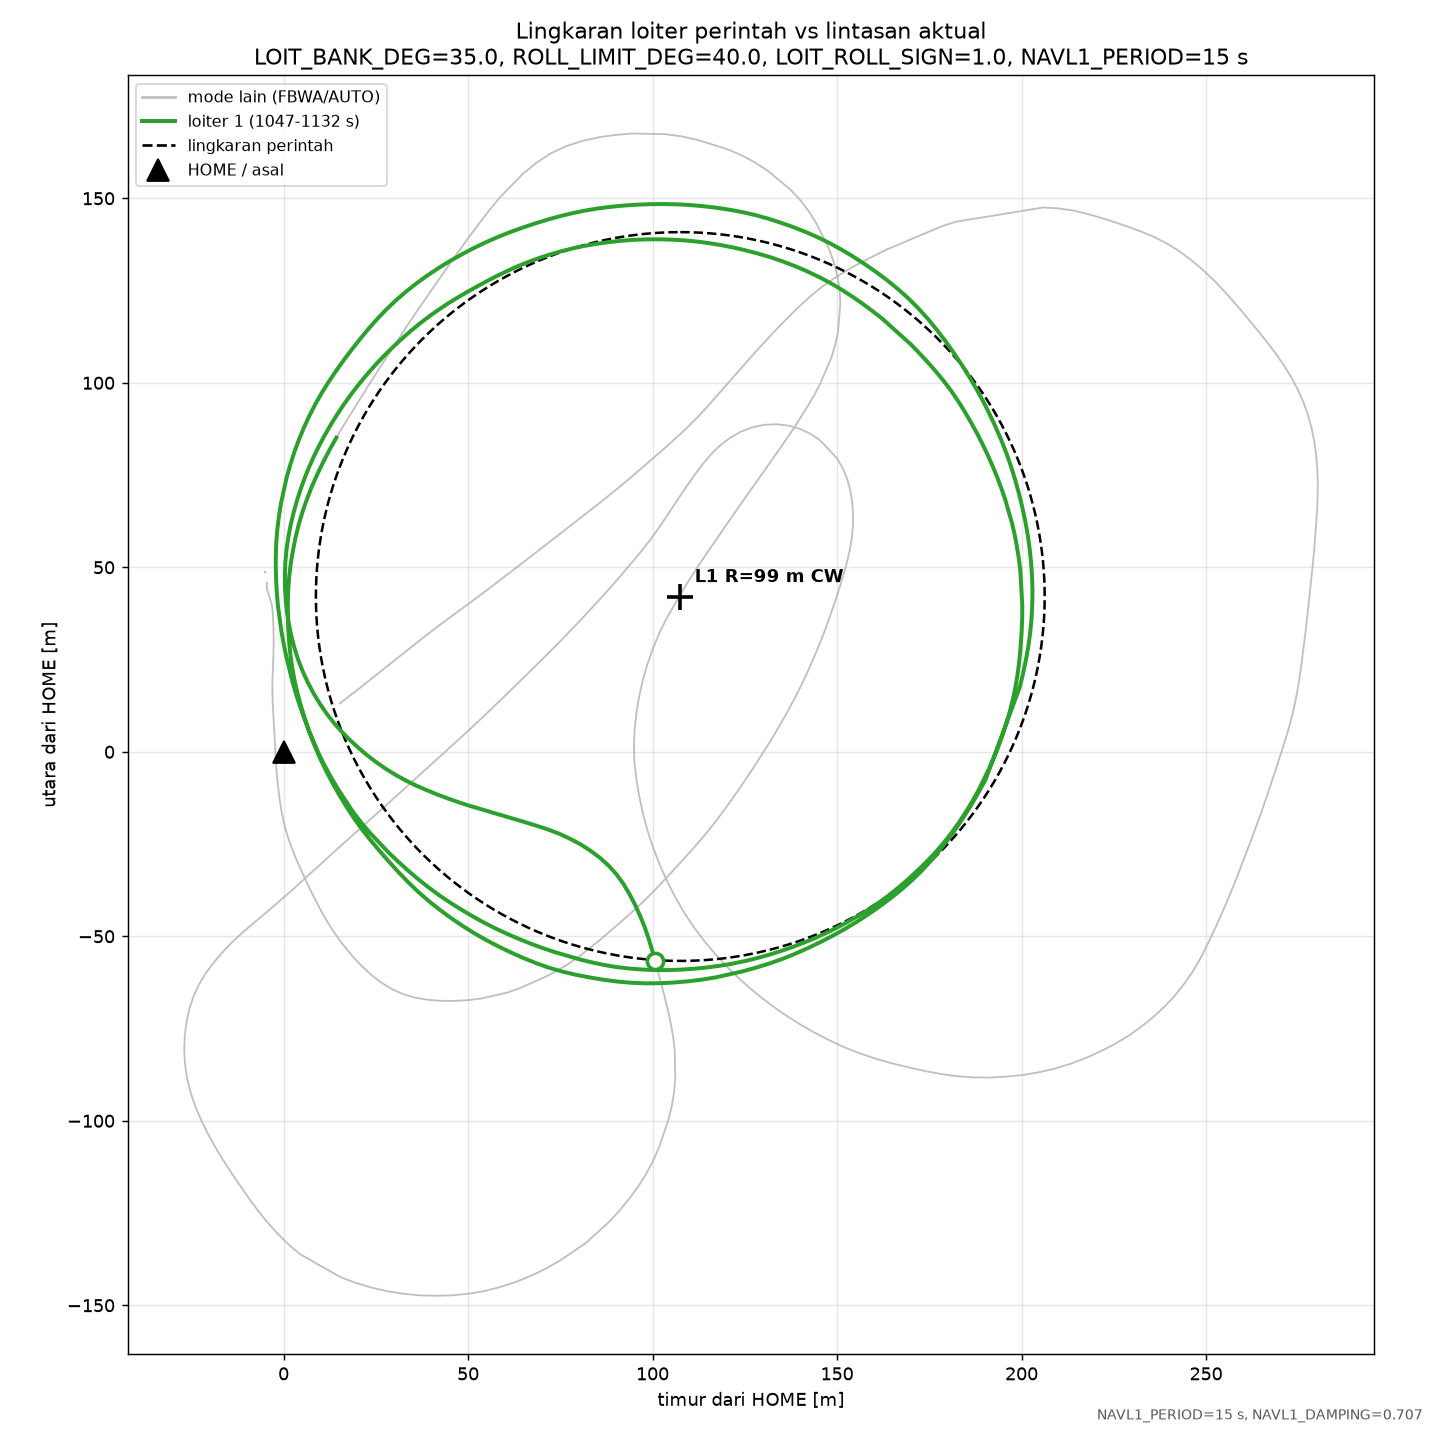
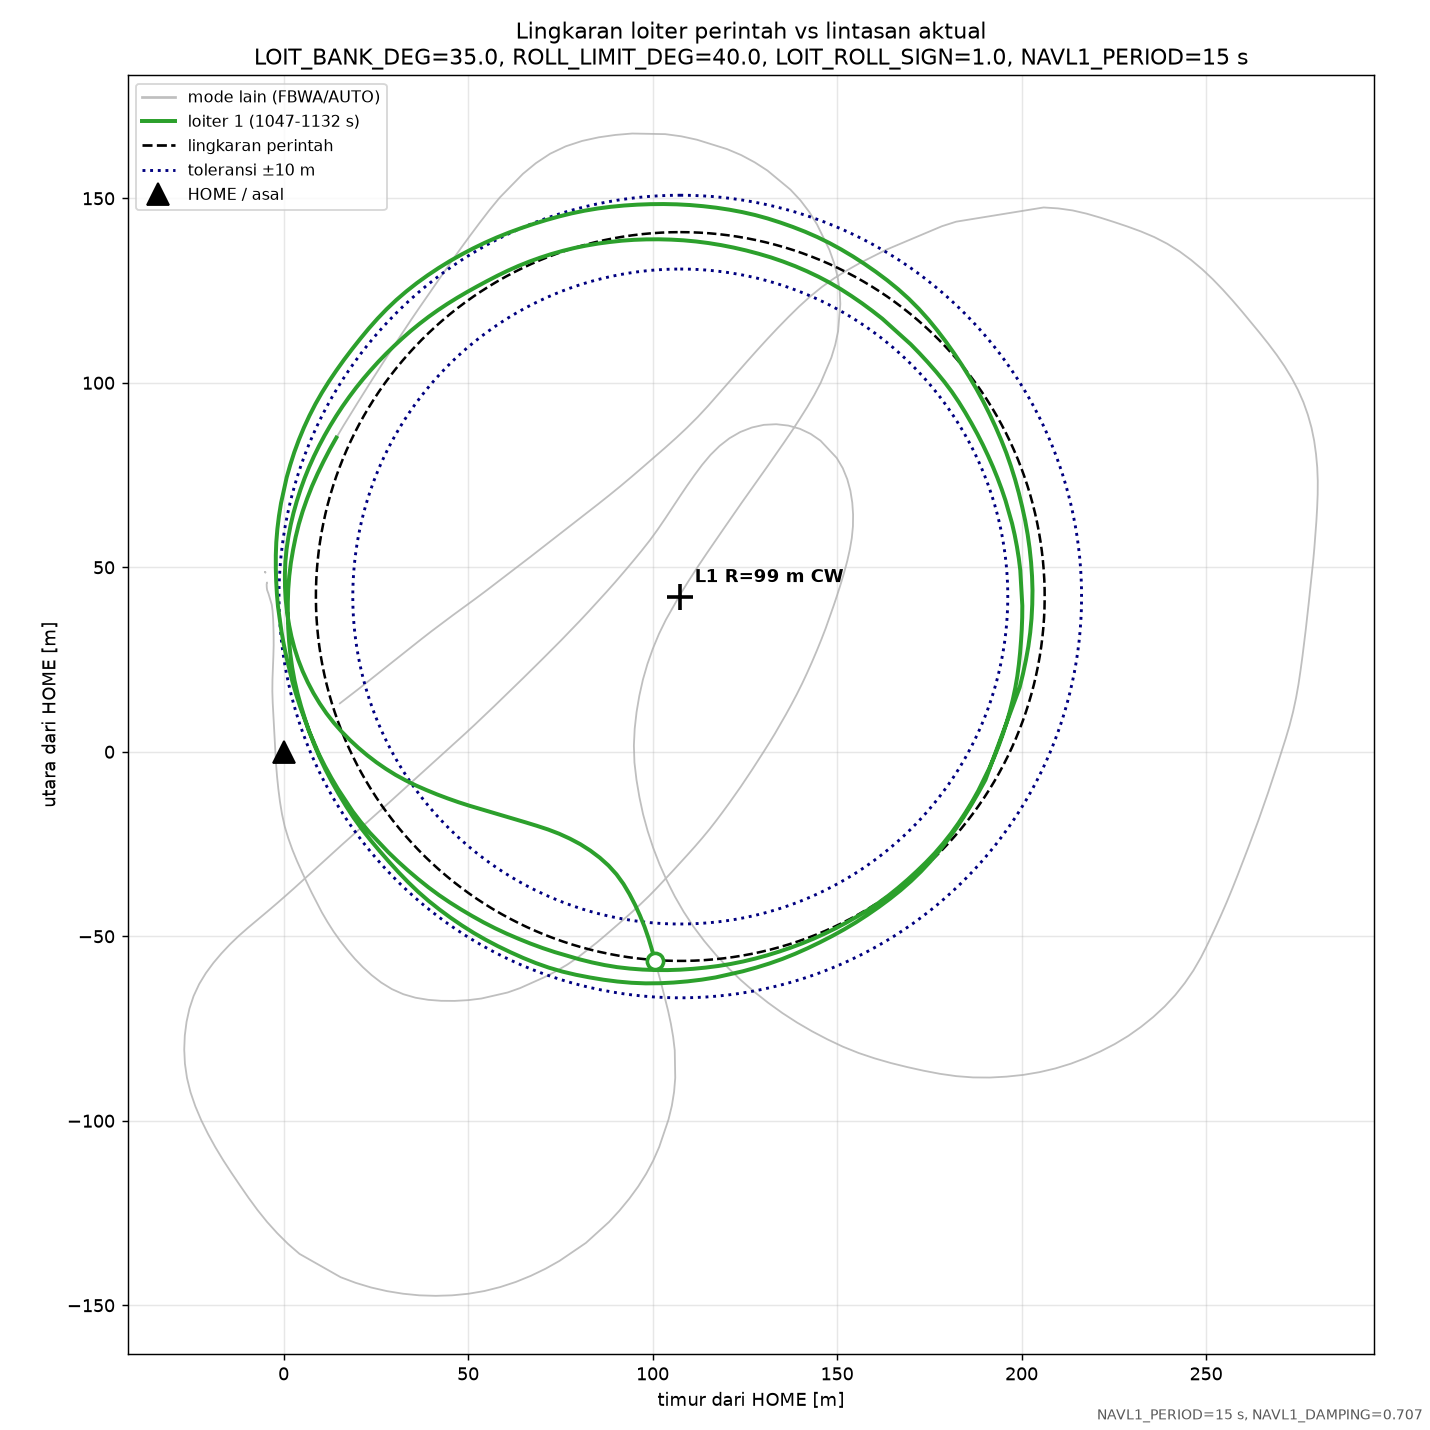
lingkaran toleransi loiter di grafik 01

Changed region(s): [[0.0923, 0.0923, 0.2154, 0.1538]]

diff --git a/tools/flight_analysis/analyze_tlog_loiter.py b/tools/flight_analysis/analyze_tlog_loiter.py
@@ -435,10 +435,14 @@ def main():
             ax.plot(PX[mm][0], PY[mm][0], "o", color=c, ms=9, mfc="white", mew=2, zorder=4)
             R = float(np.median(s["v_rad"]))
             ax.plot(*ring(s["cx"], s["cy"], R), "k--", lw=1.4, zorder=2)
+            ax.plot(*ring(s["cx"], s["cy"], R + TOL), ":", color="navy", lw=1.6, zorder=2)
+            if R - TOL > 0:
+                ax.plot(*ring(s["cx"], s["cy"], R - TOL), ":", color="navy", lw=1.6, zorder=2)
             ax.plot(s["cx"], s["cy"], "k+", ms=14, mew=2)
             ax.annotate("L%d R=%.0f m %s" % (si + 1, R, "CW" if s["dir"] > 0 else "CCW"), (s["cx"], s["cy"]),
                         textcoords="offset points", xytext=(8, 8), fontsize=10, weight="bold")
         ax.plot([], [], "k--", label="lingkaran perintah")
+        ax.plot([], [], ":", color="navy", lw=1.6, label="toleransi ±%.0f m" % TOL)
         ax.plot(0, 0, "k^", ms=12, label="HOME / asal")
         ax.set_aspect("equal")
         ax.grid(alpha=0.3)
